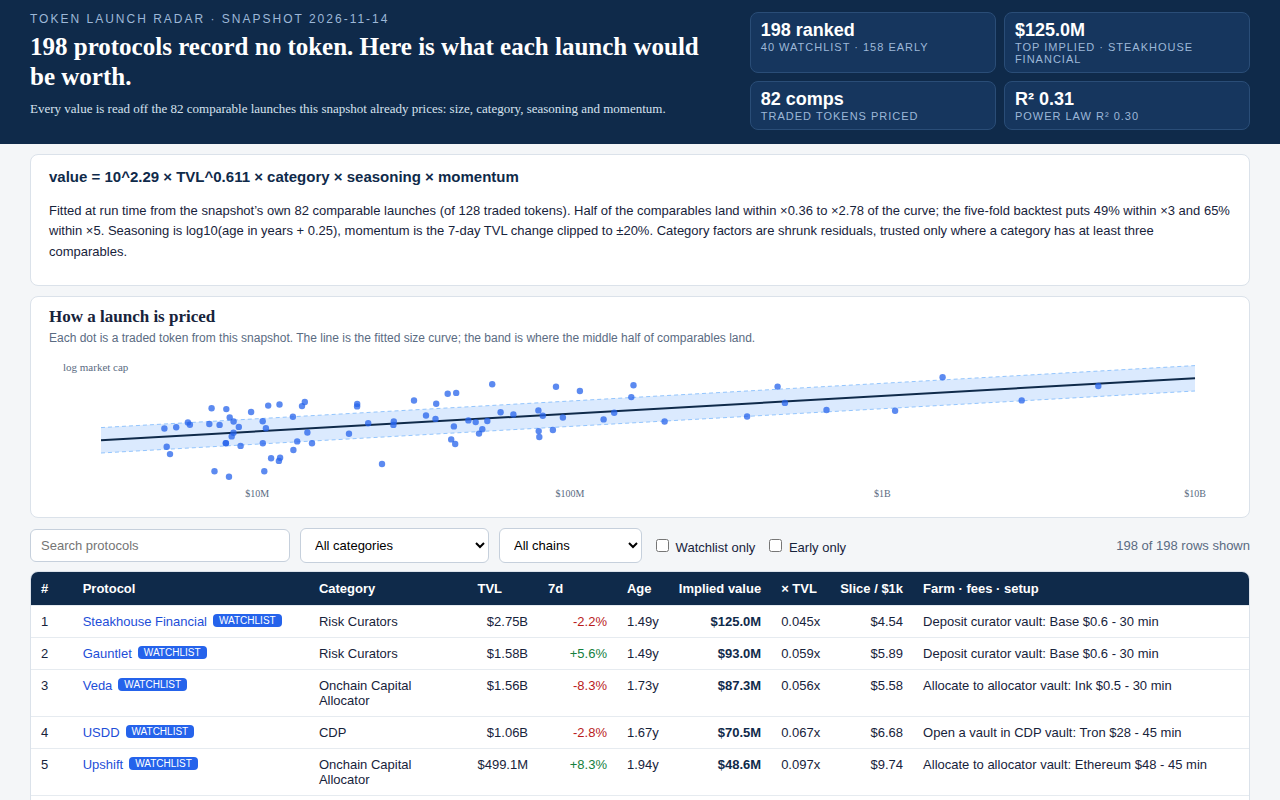
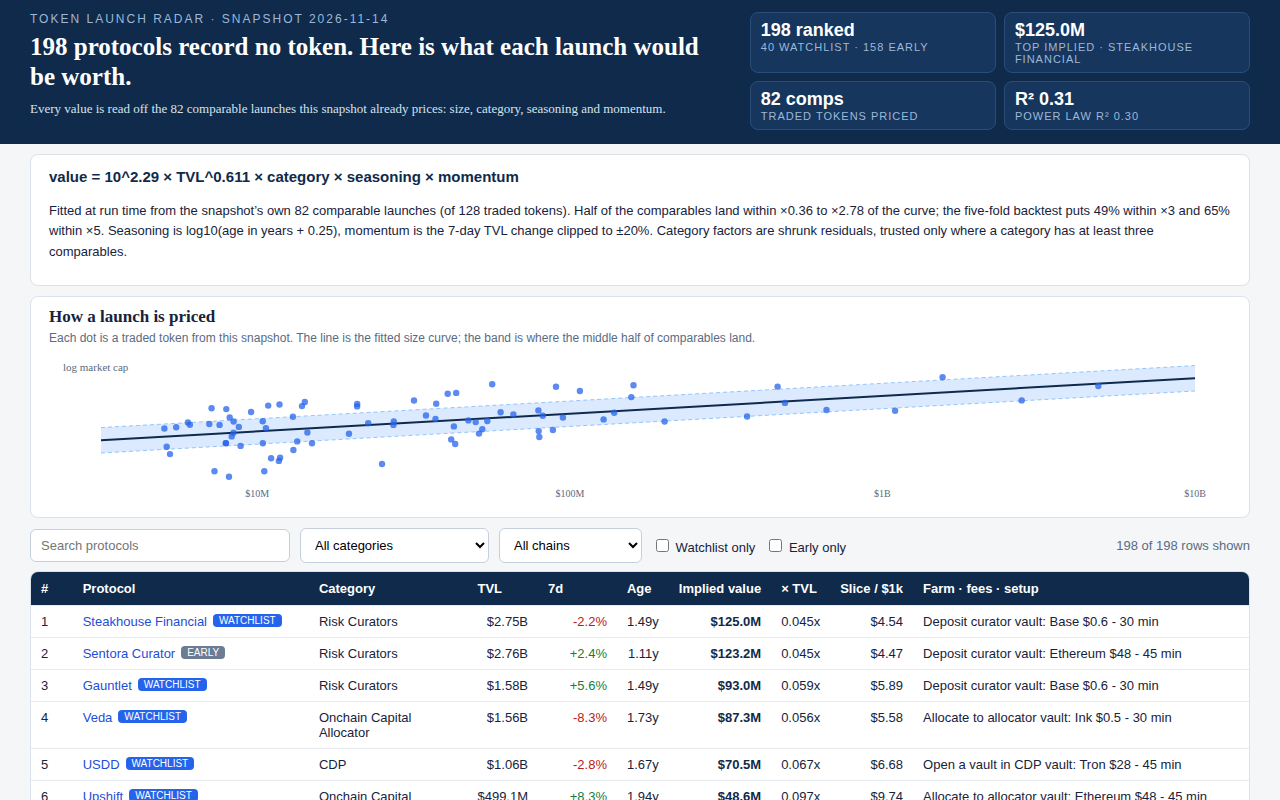
round 2: include above-floor non-watchlist protocols passing the watchlist rule (Sentora Curator)

diff --git a/lib/model.ts b/lib/model.ts
@@ -307,21 +307,41 @@ function fitModelShallow(comps: SnapshotProtocol[]): (p: SnapshotProtocol) => nu
   };
 }
 
-// Board selection: the whole watchlist, then the largest pre-token
-// protocols below the floor that pass the watchlist's own product filters
-// (no wrapped, staked or bridged product, no version suffix, no exchange
-// name up front). The giants the rule leaves out — exchange chains, bridges
-// and wrapped products that record no token only because their token trades
-// under another name — are not launches, so they are not ranked.
+// Board selection: the whole watchlist, then the pre-token protocols
+// above the floor that pass the watchlist's own rule, then the largest
+// pre-token protocols below the floor that pass the watchlist's own
+// product filters. The watchlist is a floor, never a ceiling: a protocol
+// the list leaves out is no worse a subject, and the board may rank
+// protocols the watchlist does not name. Above the floor the rule is the
+// watchlist's own, read off the snapshot: TVL at or above the floor, and
+// no token recorded at all — no market cap, no CoinGecko id, no symbol.
+// Morpho Blue is the line the rule draws: $10.41B of TVL, but its record
+// carries symbol MORPHO, so its token already trades and it is not
+// ranked. The giants the rule leaves out — exchange chains, bridges
+// and wrapped products that record no token only because their token
+// trades under another name — are not launches, so they are not ranked.
 const VERSION_SUFFIX = /\s(V\d+(\.\d+)?|v\d+(\.\d+)?|\d+\.\d+)$/;
 const EXCHANGE_PREFIX = ["Binance", "Coinbase", "Bybit", "Kraken", "Bitget", "OKX", "Bitfinex", "Gemini"];
 
 export function passesProductFilters(p: SnapshotProtocol): boolean {
   if (p.category !== null && EXCLUDED_CATEGORIES.has(p.category)) return false;
+  // A category that names a bridge or a wrapper is a bridge or a wrapped
+  // product even when its label is not one of the exact excluded strings,
+  // and neither is a launch: a cross-chain bridge moves a token that
+  // already trades, and a wrapped stablecoin is that token in new paper.
+  if (p.category !== null && /bridge|wrapper/i.test(p.category)) return false;
   if (VERSION_SUFFIX.test(p.name)) return false;
   if (/\bwrapped\b|\bstaked\b|\bstaking\b/i.test(p.name)) return false;
   if (EXCHANGE_PREFIX.some((prefix) => p.name.startsWith(prefix))) return false;
   return true;
+}
+
+// Whether a protocol's record carries no token at all: the kit's own
+// pre-token test — no market cap, no CoinGecko id, no symbol. A market
+// cap of null alone does not prove it: a record can carry a symbol for
+// a token that trades while recording no market cap for it.
+export function recordsNoToken(p: SnapshotProtocol): boolean {
+  return p.mcap_usd === null && p.gecko_id === null && p.symbol === null;
 }
 
 export function selectBoard(snapshot: Snapshot, size: number): SnapshotProtocol[] {
@@ -329,13 +349,19 @@ export function selectBoard(snapshot: Snapshot, size: number): SnapshotProtocol[
   const watchlist = snapshot.watchlist
     .map((slug) => bySlug.get(slug))
     .filter((p): p is SnapshotProtocol => p !== undefined);
+  const aboveFloor = snapshot.protocols
+    .filter((p) => p.tvl_usd >= snapshot.floor_usd)
+    .filter((p) => !snapshot.watchlist.includes(p.slug))
+    .filter(recordsNoToken)
+    .filter(passesProductFilters)
+    .sort((a, b) => b.tvl_usd - a.tvl_usd);
   const early = snapshot.protocols
     .filter((p) => p.mcap_usd === null)
     .filter((p) => p.tvl_usd < snapshot.floor_usd)
     .filter((p) => !snapshot.watchlist.includes(p.slug))
     .filter(passesProductFilters)
     .sort((a, b) => b.tvl_usd - a.tvl_usd);
-  const picked = [...watchlist];
+  const picked = [...watchlist, ...aboveFloor];
   for (const p of early) {
     if (picked.length >= size) break;
     picked.push(p);

diff --git a/dashboard/app.js b/dashboard/app.js
@@ -166,6 +166,7 @@
     'comparable (Api3); Onchain Capital Allocator has one in the fit set (Concrete). A single token cannot set a category factor, so both ' +
     'carry a factor of 1.00 and their values come from the size curve, seasoning and momentum alone. That is the board&rsquo;s widest ' +
     'uncertainty, and it is why Steakhouse Financial and Veda sit where the curve puts them rather than where one precedent would.</p>' +
+    '<h3>The watchlist is a floor</h3><p>The watchlist names 40 protocols and the board holds 198 rows: the watchlist is a floor, never a ceiling, and a board may rank protocols the watchlist does not name. Above the floor, a protocol joins the board only when its record carries no token at all — no market cap, no CoinGecko id, no symbol. Sentora Curator is the largest such name the watchlist leaves out, a Risk Curators protocol with $2.76B of TVL. Morpho Blue is left out on the same line: $10.41B of TVL, but its record carries the symbol MORPHO, so its token already trades. Circle Gateway and USDCx are left out too, a cross-chain bridge and a wrapped stablecoin — neither is a launch.</p>' +
     '<h3>What the board does not claim</h3><ul><li>It does not predict whether or when any protocol issues a token — only what the token would be worth if the protocol&rsquo;s record stayed as it is.</li>' +
     '<li>It does not rank exchange chains, bridges or wrapped products as launches: they record no token only because their token already trades under another name.</li>' +
     '<li>Gas fees are snapshot-date estimates per chain; the farm column names the action, the chain, the fee and the setup time for a $1,000 stake.</li></ul>';

diff --git a/README.md b/README.md
@@ -30,10 +30,16 @@ of comparables land within ×0.36–×2.78 of the fitted curve in-sample.
 
 ## The board
 
-The whole 40-protocol watchlist, plus the 158 largest pre-token protocols
-below the $50M floor that pass the watchlist's own product filters. Top of
-the board on this snapshot: Steakhouse Financial $125.0M, Gauntlet $93.0M,
-Veda $87.3M, USDD $70.5M, Upshift $48.6M.
+The whole 40-protocol watchlist, plus the 18 pre-token protocols above
+the $50M floor that pass the watchlist's own rule, plus the 140 largest
+pre-token protocols below the floor that pass the watchlist's own product
+filters. The watchlist is a floor, never a ceiling: Sentora Curator is
+the largest name it leaves out, $2.76B of TVL in Risk Curators, and the
+model prices its launch at $123.2M, second on the board. Morpho Blue is
+left out on the same line: $10.41B of TVL, but its record carries symbol
+MORPHO, so its token already trades. Top of the board on this snapshot:
+Steakhouse Financial $125.0M, Sentora Curator $123.2M, Gauntlet $93.0M,
+Veda $87.3M, USDD $70.5M.
 
 Every row carries a farm plan for a $1,000 working stake: concrete steps
 with a dollar cost and a setup time on the protocol's primary chain, plus a
